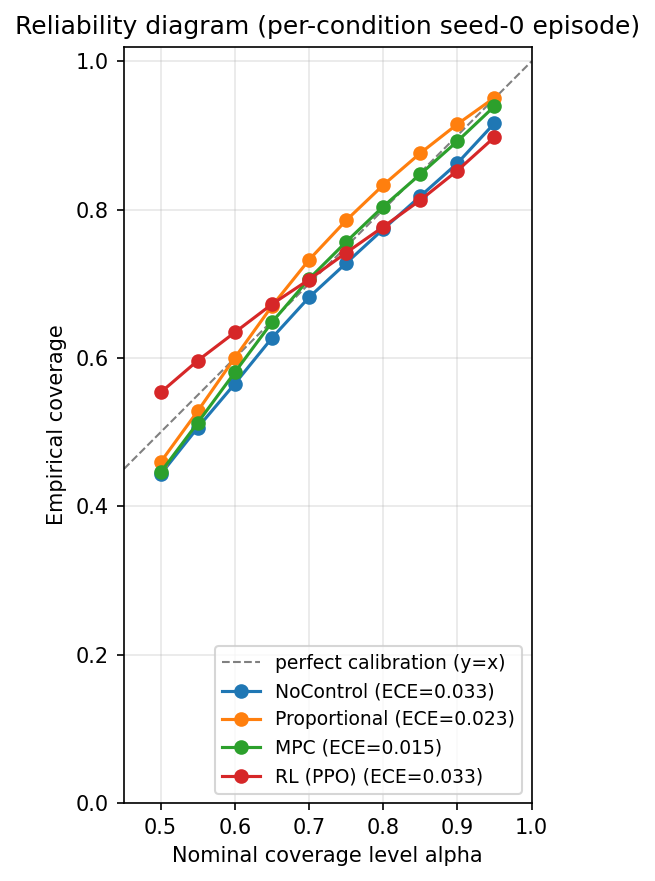
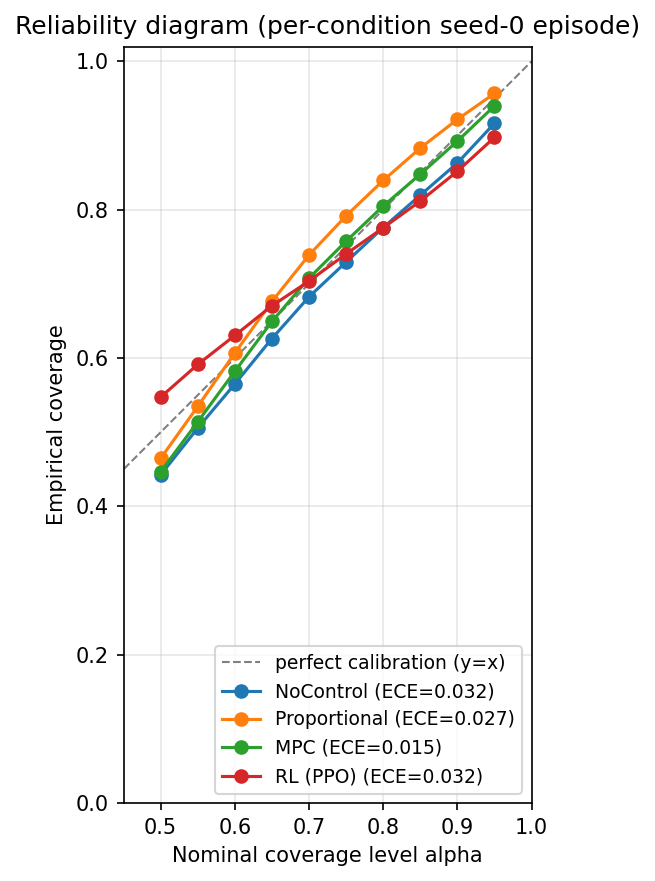
fixing readme.md

diff --git a/README.md b/README.md
@@ -106,8 +106,8 @@ work.
 
 ## Authors
 
-- Adil Arya — *arya0090@umn.edu*
-- [Partner Name] — *[email]*
+- Adil Arya — *arya0033@umn.edu*
+- Mohammed Jassim Jahubar Ali — *jahub001@umn.edu*
 
 ## License
 
